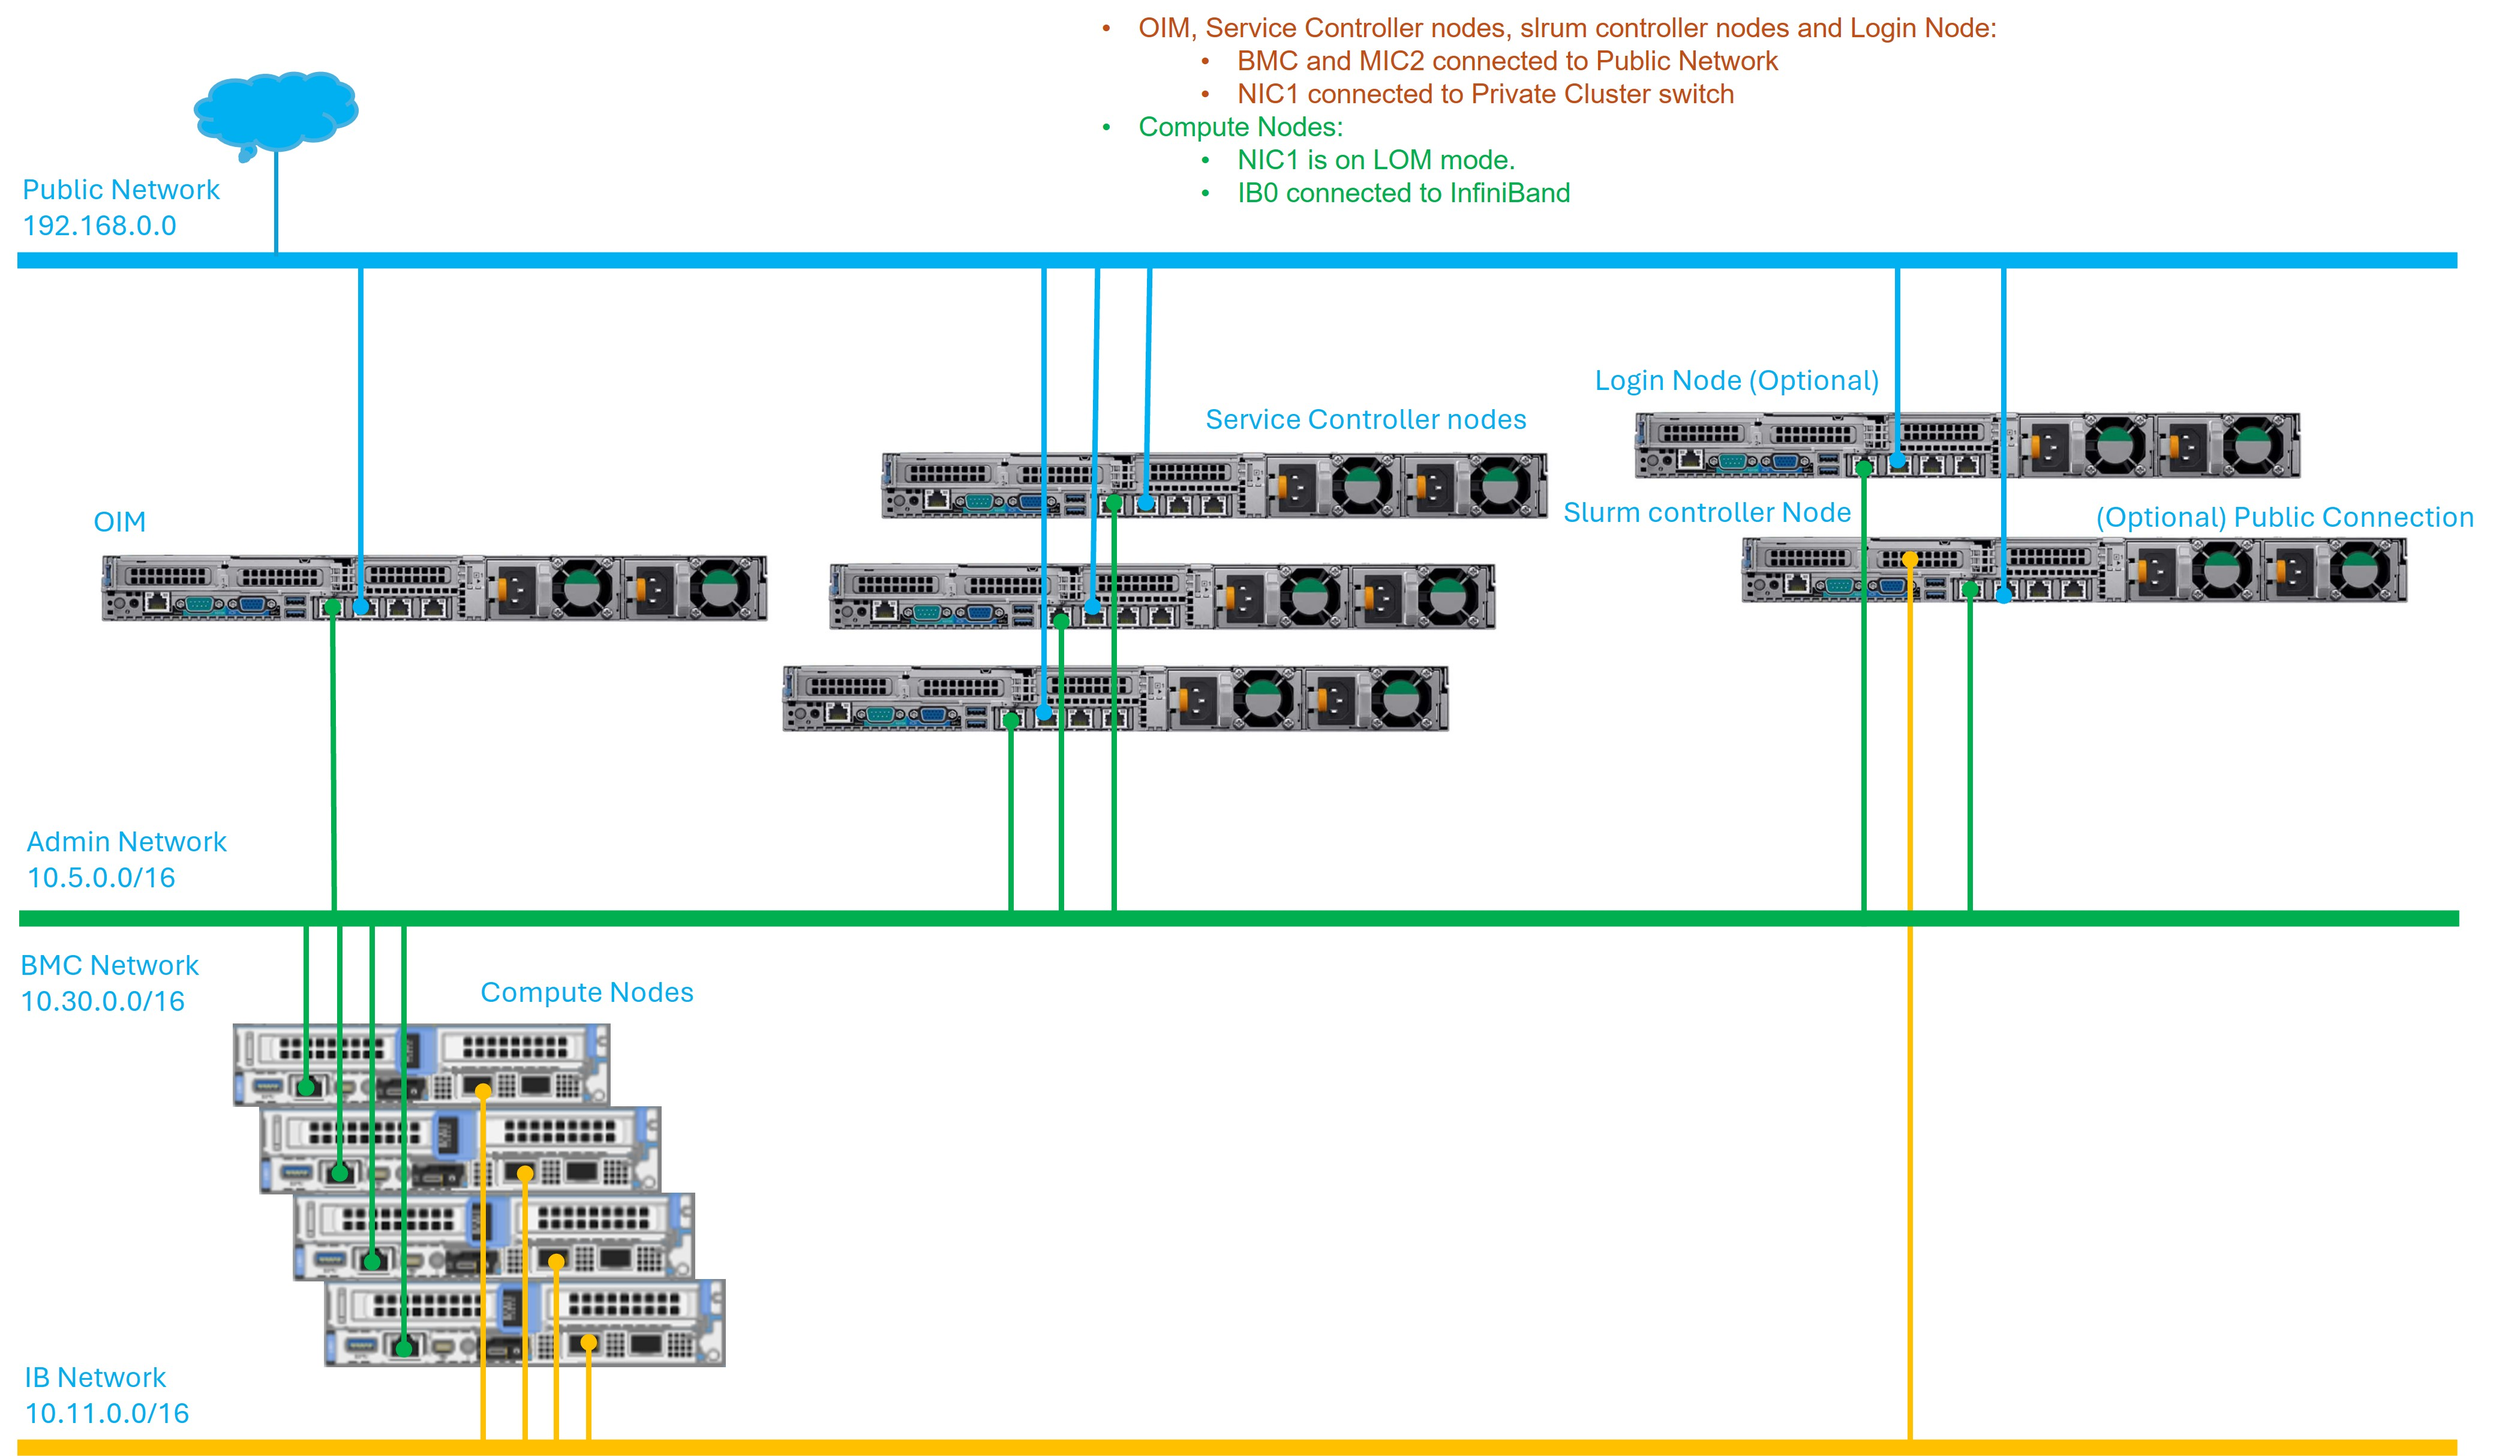
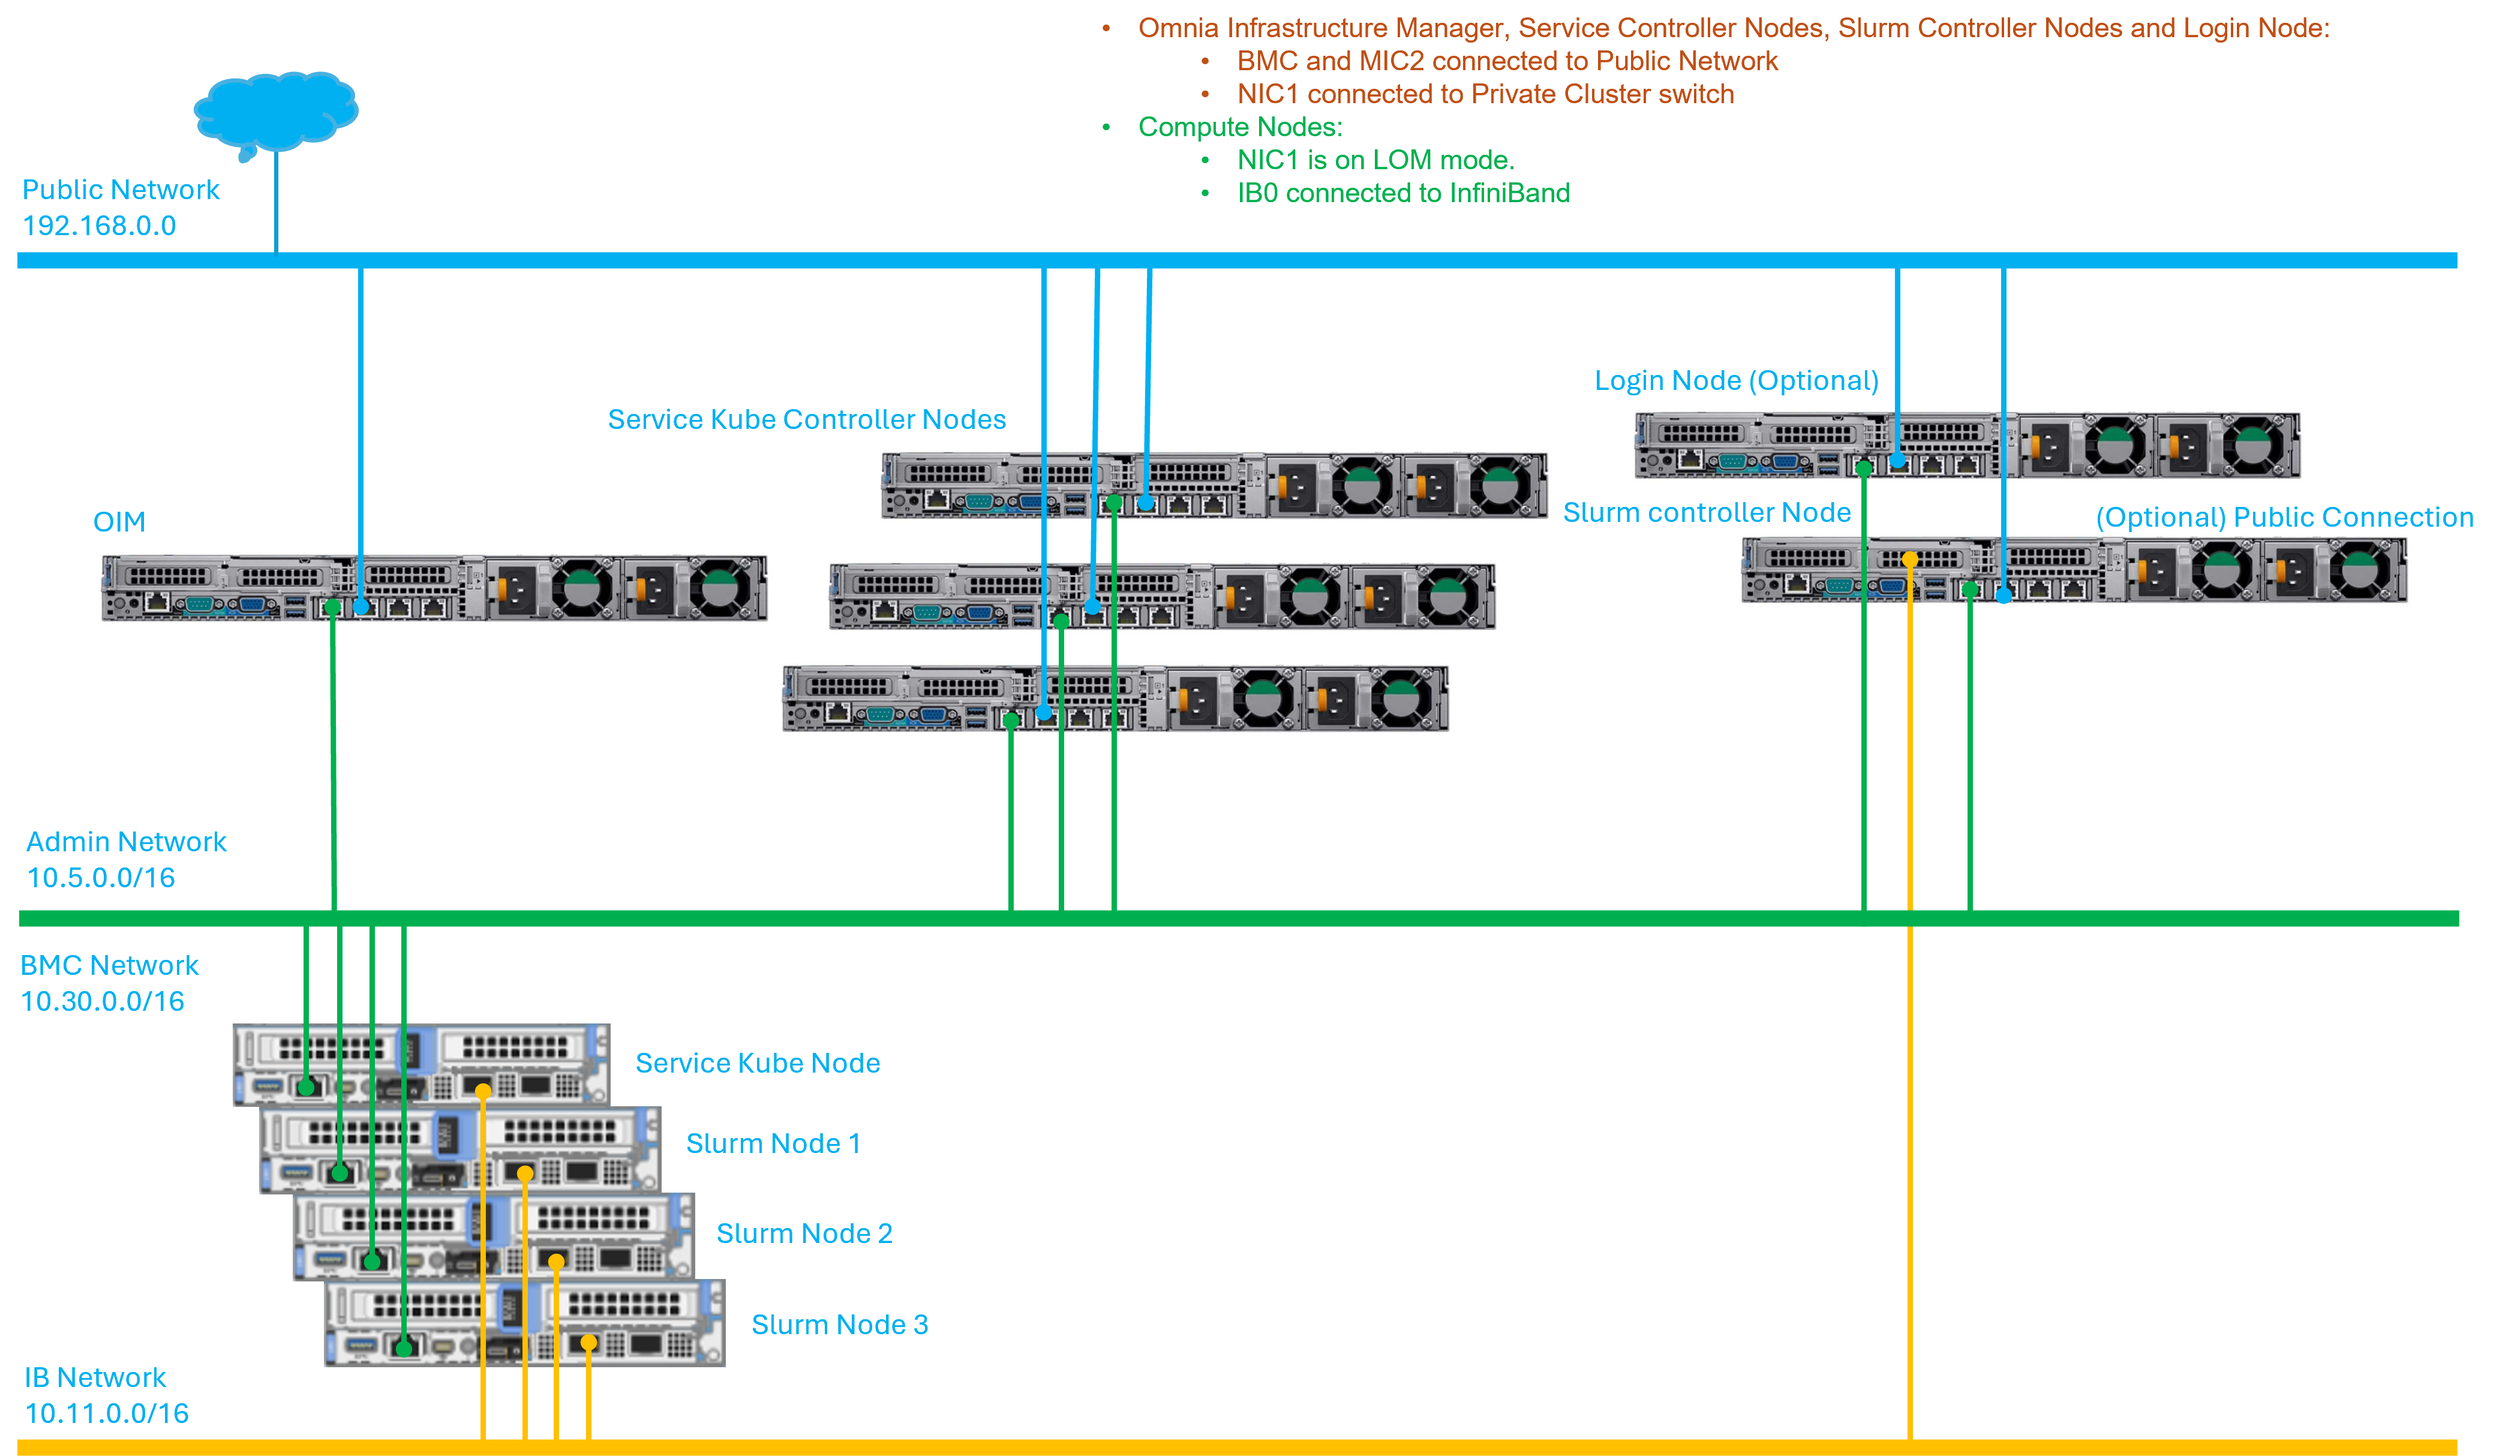
Latest feedback on network topologies addressed.

diff --git a/docs/source/OmniaInstallGuide/RHEL_new/Provision/discover_mechanism_mappingfile.rst b/docs/source/OmniaInstallGuide/RHEL_new/Provision/discover_mechanism_mappingfile.rst
@@ -8,13 +8,13 @@ A sample format is shown below:
 ::
 
     FUNCTIONAL_GROUP_NAME,GROUP_NAME,SERVICE_TAG,HOSTNAME,ADMIN_MAC,ADMIN_IP,BMC_MAC,BMC_IP
-    slurm_control_node_x86_64,grp0,ABCD12,slurm_control_node1,xx:yy:zz:aa:bb:cc,172.16.107.52,xx:yy:zz:aa:bb:dd,172.17.107.52
-    slurm_node_x86_64,grp1,ABCD34,slurm_node1,aa:bb:cc:dd:ee:ff,172.16.107.43,aa:bb:cc:dd:ee:gg,172.17.107.43
-    slurm_node_x86_64,grp1,ABFG34,slurm_node2,aa:bb:cc:dd:ee:ff,172.16.107.44,aa:bb:cc:dd:ff:gg,172.17.107.44
-    login_compiler_node_x86_64,grp6,ABCD78,login_compiler_node1,aa:bb:cc:dd:ee:gg,172.16.107.41,aa:bb:cc:dd:ee:bb,172.17.107.41
-    login_compiler_node_x86_64,grp6,ABFG78,login_compiler_node2,aa:bb:cc:dd:ee:gg,172.16.107.42,aa:bb:cc:dd:ee:bb,172.17.107.42
-    service_kube_node_x86_64,grp3,ABCD56,service_kube_node1,xx:yy:zz:aa:bb:dd,172.16.107.54,xx:yy:zz:aa:bb:ff,172.17.107.54
-    service_kube_node_x86_64,grp3,ABFG56,service_kube_node2,xx:aa:zz:aa:bb:dd,172.16.107.55,xx:aa:zz:aa:bb:ff,172.17.107.55
+    slurm_control_node_x86_64,grp0,ABCD12,slurm-control-node1,xx:yy:zz:aa:bb:cc,172.16.107.52,xx:yy:zz:aa:bb:dd,172.17.107.52
+    slurm_node_x86_64,grp1,ABCD34,slurm-node1,aa:bb:cc:dd:ee:ff,172.16.107.43,aa:bb:cc:dd:ee:gg,172.17.107.43
+    slurm_node_x86_64,grp1,ABFG34,slurm-node2,aa:bb:cc:dd:ee:ff,172.16.107.44,aa:bb:cc:dd:ff:gg,172.17.107.44
+    login_compiler_node_x86_64,grp6,ABCD78,login-compiler-node1,aa:bb:cc:dd:ee:gg,172.16.107.41,aa:bb:cc:dd:ee:bb,172.17.107.41
+    login_compiler_node_x86_64,grp6,ABFG78,login-compiler-node2,aa:bb:cc:dd:ee:gg,172.16.107.42,aa:bb:cc:dd:ee:bb,172.17.107.42
+    service_kube_node_x86_64,grp3,ABCD56,service-kube-node1,xx:yy:zz:aa:bb:dd,172.16.107.54,xx:yy:zz:aa:bb:ff,172.17.107.54
+    service_kube_node_x86_64,grp3,ABFG56,service-kube-node2,xx:aa:zz:aa:bb:dd,172.16.107.55,xx:aa:zz:aa:bb:ff,172.17.107.55
 
 .. note::
     * The header fields mentioned above are case sensitive.

diff --git a/docs/source/OmniaInstallGuide/samplefiles.rst b/docs/source/OmniaInstallGuide/samplefiles.rst
@@ -69,10 +69,10 @@ pxe_mapping_file.csv
 ::
 
     FUNCTIONAL_GROUP_NAME,GROUP_NAME,SERVICE_TAG,HOSTNAME,ADMIN_MAC,ADMIN_IP,BMC_MAC,BMC_IP
-    slurm_control_node_x86_64,grp0,ABCD12,slurm_control_node1,xx:yy:zz:aa:bb:cc,172.16.107.52,xx:yy:zz:aa:bb:dd,172.17.107.52
-    slurm_node_x86_64,grp1,ABCD34,slurm_node1,aa:bb:cc:dd:ee:ff,172.16.107.43,aa:bb:cc:dd:ee:gg,172.17.107.43
-    slurm_node_x86_64,grp1,ABFG34,slurm_node2,aa:bb:cc:dd:ee:ff,172.16.107.44,aa:bb:cc:dd:ff:gg,172.17.107.44
-    login_compiler_node_x86_64,grp6,ABCD78,login_compiler_node1,aa:bb:cc:dd:ee:gg,172.16.107.41,aa:bb:cc:dd:ee:bb,172.17.107.41
-    login_compiler_node_x86_64,grp6,ABFG78,login_compiler_node2,aa:bb:cc:dd:ee:gg,172.16.107.42,aa:bb:cc:dd:ee:bb,172.17.107.42
-    service_kube_node_x86_64,grp3,ABCD56,service_kube_node1,xx:yy:zz:aa:bb:dd,172.16.107.54,xx:yy:zz:aa:bb:ff,172.17.107.54
-    service_kube_node_x86_64,grp3,ABFG56,service_kube_node2,xx:aa:zz:aa:bb:dd,172.16.107.55,xx:aa:zz:aa:bb:ff,172.17.107.55
+    slurm_control_node_x86_64,grp0,ABCD12,slurm-control-node1,xx:yy:zz:aa:bb:cc,172.16.107.52,xx:yy:zz:aa:bb:dd,172.17.107.52
+    slurm_node_x86_64,grp1,ABCD34,slurm-node1,aa:bb:cc:dd:ee:ff,172.16.107.43,aa:bb:cc:dd:ee:gg,172.17.107.43
+    slurm_node_x86_64,grp1,ABFG34,slurm-node2,aa:bb:cc:dd:ee:ff,172.16.107.44,aa:bb:cc:dd:ff:gg,172.17.107.44
+    login_compiler_node_x86_64,grp6,ABCD78,login-compiler-node1,aa:bb:cc:dd:ee:gg,172.16.107.41,aa:bb:cc:dd:ee:bb,172.17.107.41
+    login_compiler_node_x86_64,grp6,ABFG78,login-compiler-node2,aa:bb:cc:dd:ee:gg,172.16.107.42,aa:bb:cc:dd:ee:bb,172.17.107.42
+    service_kube_node_x86_64,grp3,ABCD56,service-kube-node1,xx:yy:zz:aa:bb:dd,172.16.107.54,xx:yy:zz:aa:bb:ff,172.17.107.54
+    service_kube_node_x86_64,grp3,ABFG56,service-kube-node2,xx:aa:zz:aa:bb:dd,172.16.107.55,xx:aa:zz:aa:bb:ff,172.17.107.55

diff --git a/docs/source/OmniaInstallGuide/RHEL_new/HighAvailability/service_cluster_k8s.rst b/docs/source/OmniaInstallGuide/RHEL_new/HighAvailability/service_cluster_k8s.rst
@@ -113,7 +113,7 @@ Steps
 
 7. Run ``discovery.yml`` playbook to discover the potential cluster nodes, configure the boot script, and cloud-init based on the functional groups. See `Discover cluster nodes <../Provision/index.html>`_
     
-    After successfully running the ``discovery.yml`` playbook, you can either manually PXE boot the nodes or use the ``set_pxe_boot.yml`` playbook. PXE booting allows the nodes to load diskless images from the Omnia Infrastructure Manager (OIM). For detailed steps on using ``set_pxe_boot.yml``, see `Set PXE Boot Order <https://omnia-devel.readthedocs.io/en/latest/Utils/set_pxe_boot_order.html#set-pxe-boot-order>`_.
+    After successfully running the ``discovery.yml`` playbook, you can either manually PXE boot the nodes or use the ``set_pxe_boot.yml`` playbook. PXE booting allows the nodes to load diskless images from the Omnia Infrastructure Manager (OIM). For detailed steps on using ``set_pxe_boot.yml``, see :ref:`set-pxe-boot-order`.
 
 8. After all the diskless nodes are pxebooted, use the utility to check the status of service cluster nodes and pods: ``ansible-playbook scheduler/generate_token_and_pod_status.yml -i <inv>  --tags pod_status``
 
